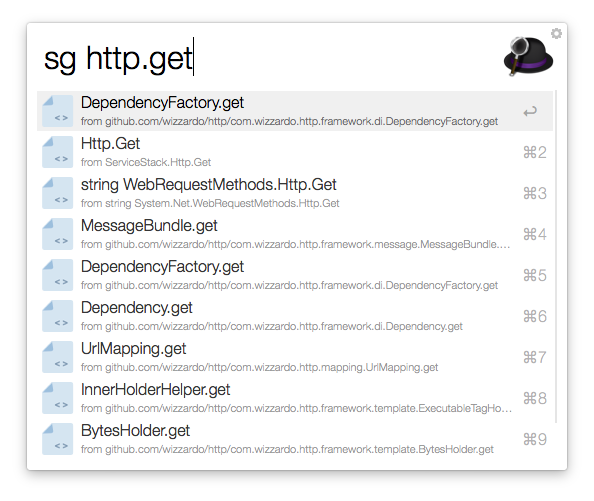
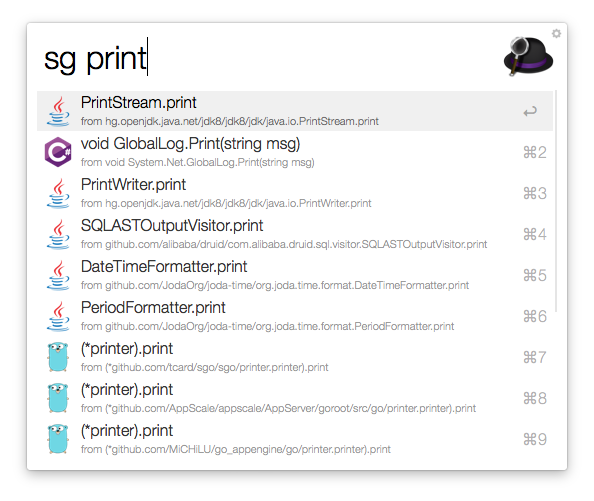
version 0.0.8

Changed region(s): [[0.0606, 0.1796, 0.8485, 0.9281], [0.1515, 0.0898, 0.3333, 0.1497], [0.9091, 0.6287, 0.9394, 0.8383]]

diff --git a/sourcegraph.py b/sourcegraph.py
@@ -4,6 +4,15 @@ import sys
 from workflow import Workflow, ICON_WEB, web
 from urllib import quote
 
+
+icon_mapping = {
+    "Java": "images/icons/java.png",
+    "C": "images/icons/c-original.png",
+    "Go": "images/icons/go-original.png",
+    "C#": "images/icons/csharp-original.png",
+    "Python": "images/icons/python-original.png"
+}
+
 def main(wf):
 
     if wf.args and len(wf.args) > 1:
@@ -12,7 +21,7 @@ def main(wf):
 
         searchtype = "info" if searchtype == 'i' else "def"
 
-        url = "https://sourcegraph.com/.api/global-search?Query=%s&Limit=10" % query.replace(' ' , '+')
+        url = "https://sourcegraph.com/.api/global-search?Query=%s&Limit=15" % query.replace(' ' , '+')
 
         request = web.get(url)
 
@@ -30,18 +39,21 @@ def main(wf):
             wf.add_item(title="No results found for \"%s\"" % query,
                         subtitle = "",
                         valid=False,
-                        icon='sourcegraph-mark.png')
+                        icon='images/sourcegraph-mark.png')
             wf.send_feedback()
             return
         for post in posts:
             try:
+                icon = "images/icons/doc-code.png"
+                if post['FmtStrings']['Language'] in icon_mapping:
+                    icon = icon_mapping[post['FmtStrings']['Language']]
                 title = post['FmtStrings']['Name']['ScopeQualified']
                 subtitle = "from %s" % post['FmtStrings']['Name']['LanguageWideQualified']
                 wf.add_item(title=title,
                             subtitle=subtitle,
                             arg= "%s/-/%s/%s/%s/-/%s" % (post['Repo'], searchtype, post['UnitType'], post['Unit'], post['Path']),
                             valid=True,
-                            icon='doc-code.png')
+                            icon=icon)
             except Exception as e:
                 sys.stderr.write(str(e))
         # Send the results to Alfred as XML

diff --git a/README.md b/README.md
@@ -1,19 +1,28 @@
-# Sourcegraph for Alfred
+# Sourcegraph for Alfred [ [Download Latest Version](https://github.com/sourcegraph/sourcegraph-alfred/releases/latest) ]
 
-*Sourcegraph for Alfred is in beta mode. Feedback or issue? Please email us at support@sourcegraph.com or [file an issue.](https://github.com/sourcegraph/sourcegraph-sublime/issues)*
+*Sourcegraph for Alfred is in beta mode. Feedback or issue? Please email us at support@sourcegraph.com or [file an issue.](https://github.com/sourcegraph/sourcegraph-alfred/issues)*
 
 ## Overview
 
 Sourcegraph for Alfred allows you to view Sourcegraph search results in Alfred, the macOS productivity app.
 
-## Installation
-
-To install Sourcegraph for Alfred, download the .alfredworklow file [from the latest release page.](https://github.com/sourcegraph/sourcegraph-alfred/releases/latest)
-
 ![Sourcegraph for Alfred](images/setup.png)
 
+## Installation
+
+In order to use this Workflow requires [Alfred](https://www.alfredapp.com/) and the [Alfred Powerpack](https://www.alfredapp.com/powerpack/).
+
+To install Sourcegraph for Alfred, [download the latest .alfredworklow.](https://github.com/sourcegraph/sourcegraph-alfred/releases/latest) and open the workflow file. 
+
+![Sourcegraph for Alfred](images/install.png)
+
 ## Usage
-TODO
+Launch Alfred using [your configured hotkey](https://www.alfredapp.com/help/workflows/triggers/hotkey/) Type "sg" followed by a search term relevant to the documentation you're looking for and select the most relevant item from the menu. Search items open in your default browser.
+
+Try some common searches:
+- `http.Get`
+- `Sprintf`
+- `func Decode`
 
 ## Support
 
